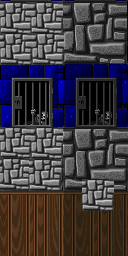
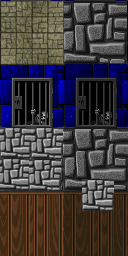
better wall and sword textures

Changed region(s): [[0.0, 0.0, 0.5, 0.25]]

diff --git a/index.html b/index.html
@@ -39,8 +39,8 @@ div#ceiling {
 
 #screen {
  position : relative;
- width : 320px;
- height : 200px;
+ width : 640px;
+ height : 400px;
  border : 1px solid black;
  overflow : hidden;
 }
@@ -54,7 +54,7 @@ div#ceiling {
 
 <div id="screen">
 <div id = "sword">
-	<img src = "swordtilt.png" style = "position: absolute; left: 230px; top: 100px; z-index:3;">
+	<img src = "swordtilt.png" style = "width:300px; position: absolute; left: 450px; top: 160px; z-index:3;">
 </div>
 <div id="floor"></div>
 <div id="ceiling"></div>
@@ -79,9 +79,9 @@ var map = [
     [1,1,1,1,1,1,1,1,1,1,0,1,1,1,0,0,0,0,0,0,0,1,1,1,1,1,0,0,0,0,0,1],
     [1,1,1,1,1,1,1,1,1,1,0,1,1,1,1,1,1,1,1,0,1,1,1,1,1,1,1,1,1,1,1,1],
     [1,1,1,0,0,0,0,0,1,1,0,1,1,1,1,1,1,1,1,0,1,1,1,1,1,1,1,1,1,1,1,1],
-    [1,1,1,0,0,0,0,0,2,1,0,1,1,1,1,1,1,1,1,0,1,1,1,1,1,1,1,1,1,1,1,1],
+    [1,1,1,0,0,0,0,0,3,1,0,3,1,1,1,1,1,1,1,0,1,1,1,1,1,1,1,1,1,1,1,1],
     [1,1,1,0,0,0,0,0,0,0,0,1,1,1,1,1,1,1,1,0,1,1,1,1,1,1,1,1,1,1,1,1],
-    [1,1,1,0,0,0,0,0,1,1,1,1,1,1,1,1,1,1,1,0,1,1,1,1,1,1,1,1,1,1,1,1],
+    [1,1,1,0,0,0,0,0,3,1,1,1,1,1,1,1,1,1,1,0,1,1,1,1,1,1,1,1,1,1,1,1],
     [1,1,1,1,1,1,1,1,1,1,1,1,1,1,1,1,1,1,1,0,1,1,1,1,1,1,1,1,1,1,1,1],
     [1,1,1,1,1,1,1,1,1,1,1,1,1,1,1,1,1,1,1,0,1,1,1,1,1,1,1,1,1,1,1,1],
     [1,1,1,1,1,1,1,1,1,1,1,1,1,1,0,0,0,0,0,0,1,1,1,1,1,1,1,1,1,1,1,1],
@@ -113,11 +113,11 @@ var mapHeight = 0;
 
 var miniMapScale = 8;
 
-var screenWidth = 320;
-var screenHeight = 200;
+var screenWidth = 640;
+var screenHeight = 400;
 
-var stripWidth = 2;
-var fov = 60 * Math.PI / 180;
+var stripWidth = 1;
+var fov = 90 * Math.PI / 180;
 
 var numRays = Math.ceil(screenWidth / stripWidth);
 var fovHalf = fov / 2;

diff --git a/raycaster.html b/raycaster.html
@@ -60,7 +60,7 @@ div#ceiling {
 <div id="ceiling"></div>
 </div>
 
-<div id="minimapcontainer">
+<div id="minimapcontainer" style = "float:right;">
 <canvas id="minimap"></canvas>
 <canvas id="minimapobjects"></canvas>
 </div>
